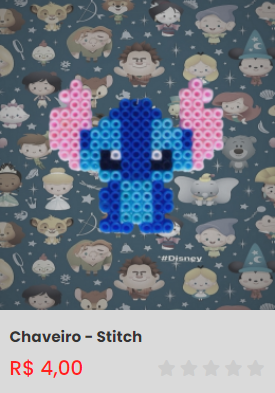
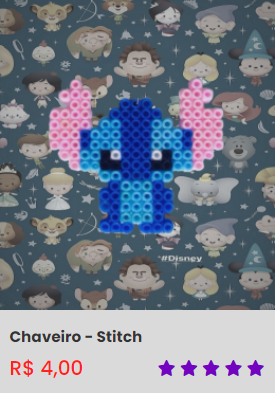
atualizacao arqueiro verde e outros

Changed region(s): [[0.5818, 0.916, 0.8727, 0.9771], [0.9018, 0.916, 0.96, 0.9771]]

diff --git a/index.html b/index.html
@@ -129,11 +129,11 @@
                         <div class="price_rating">
                             <h2>R$ 12,00</h2>
                             <div class="rating">
-                                <i class="fa-solid grey fa-star"></i>
-                                <i class="fa-solid grey fa-star"></i>
-                                <i class="fa-solid grey fa-star"></i>
-                                <i class="fa-solid grey fa-star"></i>
-                                <i class="fa-solid grey fa-star"></i>
+                                <i class="fa-solid fa-star"></i>
+                                <i class="fa-solid fa-star"></i>
+                                <i class="fa-solid fa-star"></i>
+                                <i class="fa-solid fa-star"></i>
+                                <i class="fa-solid fa-star"></i>
                             </div>
                         </div>
                     </div>
@@ -256,11 +256,11 @@
                         <div class="price_rating">
                             <h2>R$ 4,00</h2>
                             <div class="rating">
-                                <i class="fa-solid grey fa-star"></i>
-                                <i class="fa-solid grey fa-star"></i>
-                                <i class="fa-solid grey fa-star"></i>
-                                <i class="fa-solid grey fa-star"></i>
-                                <i class="fa-solid grey fa-star"></i>
+                                <i class="fa-solid fa-star"></i>
+                                <i class="fa-solid fa-star"></i>
+                                <i class="fa-solid fa-star"></i>
+                                <i class="fa-solid fa-star"></i>
+                                <i class="fa-solid fa-star"></i>
                             </div>
                         </div>
                     </div>
@@ -277,11 +277,11 @@
                         <div class="price_rating">
                             <h2>R$ 4,00</h2>
                             <div class="rating">
-                                <i class="fa-solid grey fa-star"></i>
-                                <i class="fa-solid grey fa-star"></i>
-                                <i class="fa-solid grey fa-star"></i>
-                                <i class="fa-solid grey fa-star"></i>
-                                <i class="fa-solid grey fa-star"></i>
+                                <i class="fa-solid fa-star"></i>
+                                <i class="fa-solid fa-star"></i>
+                                <i class="fa-solid fa-star"></i>
+                                <i class="fa-solid fa-star"></i>
+                                <i class="fa-solid fa-star"></i>
                             </div>
                         </div>
                     </div>
@@ -319,11 +319,11 @@
                         <div class="price_rating">
                             <h2>R$ 5,00</h2>
                             <div class="rating">
-                                <i class="fa-solid grey fa-star"></i>
-                                <i class="fa-solid grey fa-star"></i>
-                                <i class="fa-solid grey fa-star"></i>
-                                <i class="fa-solid grey fa-star"></i>
-                                <i class="fa-solid grey fa-star"></i>
+                                <i class="fa-solid fa-star"></i>
+                                <i class="fa-solid fa-star"></i>
+                                <i class="fa-solid fa-star"></i>
+                                <i class="fa-solid fa-star"></i>
+                                <i class="fa-solid fa-star"></i>
                             </div>
                         </div>
                     </div>
@@ -1033,11 +1033,11 @@
                         <div class="price_rating">
                             <h2>R$ 5,00</h2>
                             <div class="rating">
-                                <i class="fa-solid grey fa-star"></i>
-                                <i class="fa-solid grey fa-star"></i>
-                                <i class="fa-solid grey fa-star"></i>
-                                <i class="fa-solid grey fa-star"></i>
-                                <i class="fa-solid grey fa-star"></i>
+                                <i class="fa-solid fa-star"></i>
+                                <i class="fa-solid fa-star"></i>
+                                <i class="fa-solid fa-star"></i>
+                                <i class="fa-solid fa-star"></i>
+                                <i class="fa-solid fa-star"></i>
                             </div>
                         </div>
                     </div>

diff --git a/screens/per-1.html b/screens/per-1.html
@@ -38,18 +38,18 @@
                 </div>
                 <div class="avaliacoes">
                     <div class="estrelas">
-                        <h5>0.0 
-                        <i class="fa-solid grey fa-star"></i>
-                        <i class="fa-solid grey fa-star"></i>
-                        <i class="fa-solid grey fa-star"></i>
-                        <i class="fa-solid grey fa-star"></i>
-                        <i class="fa-solid grey fa-star"></i></h5>
+                        <h5>5.0 
+                        <i class="fa-solid fa-star"></i>
+                        <i class="fa-solid fa-star"></i>
+                        <i class="fa-solid fa-star"></i>
+                        <i class="fa-solid fa-star"></i>
+                        <i class="fa-solid fa-star"></i></h5>
                     </div>
                     <div class="avaliacao">
-                        <h5>0 Avaliações</h5>
+                        <h5>1 Avaliações</h5>
                     </div>
                     <div class="vendidos">
-                        <h5>0 Vendidos</h5>
+                        <h5>1 Vendidos</h5>
                     </div>
                 </div>
                 <div class="preco">

diff --git a/screens/per-10.html b/screens/per-10.html
@@ -38,18 +38,18 @@
                 </div>
                 <div class="avaliacoes">
                     <div class="estrelas">
-                        <h5>0.0 
-                        <i class="fa-solid grey fa-star"></i>
-                        <i class="fa-solid grey fa-star"></i>
-                        <i class="fa-solid grey fa-star"></i>
-                        <i class="fa-solid grey fa-star"></i>
-                        <i class="fa-solid grey fa-star"></i></h5>
+                        <h5>5.0 
+                        <i class="fa-solid fa-star"></i>
+                        <i class="fa-solid fa-star"></i>
+                        <i class="fa-solid fa-star"></i>
+                        <i class="fa-solid fa-star"></i>
+                        <i class="fa-solid fa-star"></i></h5>
                     </div>
                     <div class="avaliacao">
-                        <h5>0 Avaliações</h5>
+                        <h5>1 Avaliações</h5>
                     </div>
                     <div class="vendidos">
-                        <h5>0 Vendidos</h5>
+                        <h5>1 Vendidos</h5>
                     </div>
                 </div>
                 <div class="preco">

diff --git a/screens/per-44.html b/screens/per-44.html
@@ -42,18 +42,18 @@
                 </div>
                 <div class="avaliacoes">
                     <div class="estrelas">
-                        <h5>0.0 
-                        <i class="fa-solid grey fa-star"></i>
-                        <i class="fa-solid grey fa-star"></i>
-                        <i class="fa-solid grey fa-star"></i>
-                        <i class="fa-solid grey fa-star"></i>
-                        <i class="fa-solid grey fa-star"></i></h5>
+                        <h5>5.0 
+                        <i class="fa-solid fa-star"></i>
+                        <i class="fa-solid fa-star"></i>
+                        <i class="fa-solid fa-star"></i>
+                        <i class="fa-solid fa-star"></i>
+                        <i class="fa-solid fa-star"></i></h5>
                     </div>
                     <div class="avaliacao">
-                        <h5>0 Avaliações</h5>
+                        <h5>1 Avaliações</h5>
                     </div>
                     <div class="vendidos">
-                        <h5>0 Vendidos</h5>
+                        <h5>1 Vendidos</h5>
                     </div>
                 </div>
                 <div class="preco">

diff --git a/screens/per-7.html b/screens/per-7.html
@@ -38,18 +38,18 @@
                 </div>
                 <div class="avaliacoes">
                     <div class="estrelas">
-                        <h5>0.0 
-                        <i class="fa-solid grey fa-star"></i>
-                        <i class="fa-solid grey fa-star"></i>
-                        <i class="fa-solid grey fa-star"></i>
-                        <i class="fa-solid grey fa-star"></i>
-                        <i class="fa-solid grey fa-star"></i></h5>
+                        <h5>5.0 
+                        <i class="fa-solid fa-star"></i>
+                        <i class="fa-solid fa-star"></i>
+                        <i class="fa-solid fa-star"></i>
+                        <i class="fa-solid fa-star"></i>
+                        <i class="fa-solid fa-star"></i></h5>
                     </div>
                     <div class="avaliacao">
-                        <h5>0 Avaliações</h5>
+                        <h5>1 Avaliações</h5>
                     </div>
                     <div class="vendidos">
-                        <h5>0 Vendidos</h5>
+                        <h5>1 Vendidos</h5>
                     </div>
                 </div>
                 <div class="preco">

diff --git a/screens/per-8.html b/screens/per-8.html
@@ -38,18 +38,18 @@
                 </div>
                 <div class="avaliacoes">
                     <div class="estrelas">
-                        <h5>0.0 
-                        <i class="fa-solid grey fa-star"></i>
-                        <i class="fa-solid grey fa-star"></i>
-                        <i class="fa-solid grey fa-star"></i>
-                        <i class="fa-solid grey fa-star"></i>
-                        <i class="fa-solid grey fa-star"></i></h5>
+                        <h5>5.0 
+                        <i class="fa-solid fa-star"></i>
+                        <i class="fa-solid fa-star"></i>
+                        <i class="fa-solid fa-star"></i>
+                        <i class="fa-solid fa-star"></i>
+                        <i class="fa-solid fa-star"></i></h5>
                     </div>
                     <div class="avaliacao">
-                        <h5>0 Avaliações</h5>
+                        <h5>1 Avaliações</h5>
                     </div>
                     <div class="vendidos">
-                        <h5>0 Vendidos</h5>
+                        <h5>1 Vendidos</h5>
                     </div>
                 </div>
                 <div class="preco">

diff --git a/screens/cat 05 - dc.html b/screens/cat 05 - dc.html
@@ -43,11 +43,11 @@
                         <div class="price_rating">
                             <h2>R$ 12,00</h2>
                             <div class="rating">
-                                <i class="fa-solid grey fa-star"></i>
-                                <i class="fa-solid grey fa-star"></i>
-                                <i class="fa-solid grey fa-star"></i>
-                                <i class="fa-solid grey fa-star"></i>
-                                <i class="fa-solid grey fa-star"></i>
+                                <i class="fa-solid fa-star"></i>
+                                <i class="fa-solid fa-star"></i>
+                                <i class="fa-solid fa-star"></i>
+                                <i class="fa-solid fa-star"></i>
+                                <i class="fa-solid fa-star"></i>
                             </div>
                         </div>
                     </div>

diff --git a/screens/cat 13 - gamer.html b/screens/cat 13 - gamer.html
@@ -43,11 +43,11 @@
                         <div class="price_rating">
                             <h2>R$ 5,00</h2>
                             <div class="rating">
-                                <i class="fa-solid grey fa-star"></i>
-                                <i class="fa-solid grey fa-star"></i>
-                                <i class="fa-solid grey fa-star"></i>
-                                <i class="fa-solid grey fa-star"></i>
-                                <i class="fa-solid grey fa-star"></i>
+                                <i class="fa-solid fa-star"></i>
+                                <i class="fa-solid fa-star"></i>
+                                <i class="fa-solid fa-star"></i>
+                                <i class="fa-solid fa-star"></i>
+                                <i class="fa-solid fa-star"></i>
                             </div>
                         </div>
                     </div>

diff --git a/screens/cat 14 - love.html b/screens/cat 14 - love.html
@@ -65,11 +65,11 @@
                         <div class="price_rating">
                             <h2>R$ 5,00</h2>
                             <div class="rating">
-                                <i class="fa-solid grey fa-star"></i>
-                                <i class="fa-solid grey fa-star"></i>
-                                <i class="fa-solid grey fa-star"></i>
-                                <i class="fa-solid grey fa-star"></i>
-                                <i class="fa-solid grey fa-star"></i>
+                                <i class="fa-solid fa-star"></i>
+                                <i class="fa-solid fa-star"></i>
+                                <i class="fa-solid fa-star"></i>
+                                <i class="fa-solid fa-star"></i>
+                                <i class="fa-solid fa-star"></i>
                             </div>
                         </div>
                     </div>

diff --git a/screens/cat 16 - pets.html b/screens/cat 16 - pets.html
@@ -65,11 +65,11 @@
                         <div class="price_rating">
                             <h2>R$ 4,00</h2>
                             <div class="rating">
-                                <i class="fa-solid grey fa-star"></i>
-                                <i class="fa-solid grey fa-star"></i>
-                                <i class="fa-solid grey fa-star"></i>
-                                <i class="fa-solid grey fa-star"></i>
-                                <i class="fa-solid grey fa-star"></i>
+                                <i class="fa-solid fa-star"></i>
+                                <i class="fa-solid fa-star"></i>
+                                <i class="fa-solid fa-star"></i>
+                                <i class="fa-solid fa-star"></i>
+                                <i class="fa-solid fa-star"></i>
                             </div>
                         </div>
                     </div>

diff --git a/screens/cat 17 - disney.html b/screens/cat 17 - disney.html
@@ -43,11 +43,11 @@
                         <div class="price_rating">
                             <h2>R$ 4,00</h2>
                             <div class="rating">
-                                <i class="fa-solid grey fa-star"></i>
-                                <i class="fa-solid grey fa-star"></i>
-                                <i class="fa-solid grey fa-star"></i>
-                                <i class="fa-solid grey fa-star"></i>
-                                <i class="fa-solid grey fa-star"></i>
+                                <i class="fa-solid fa-star"></i>
+                                <i class="fa-solid fa-star"></i>
+                                <i class="fa-solid fa-star"></i>
+                                <i class="fa-solid fa-star"></i>
+                                <i class="fa-solid fa-star"></i>
                             </div>
                         </div>
                     </div>
